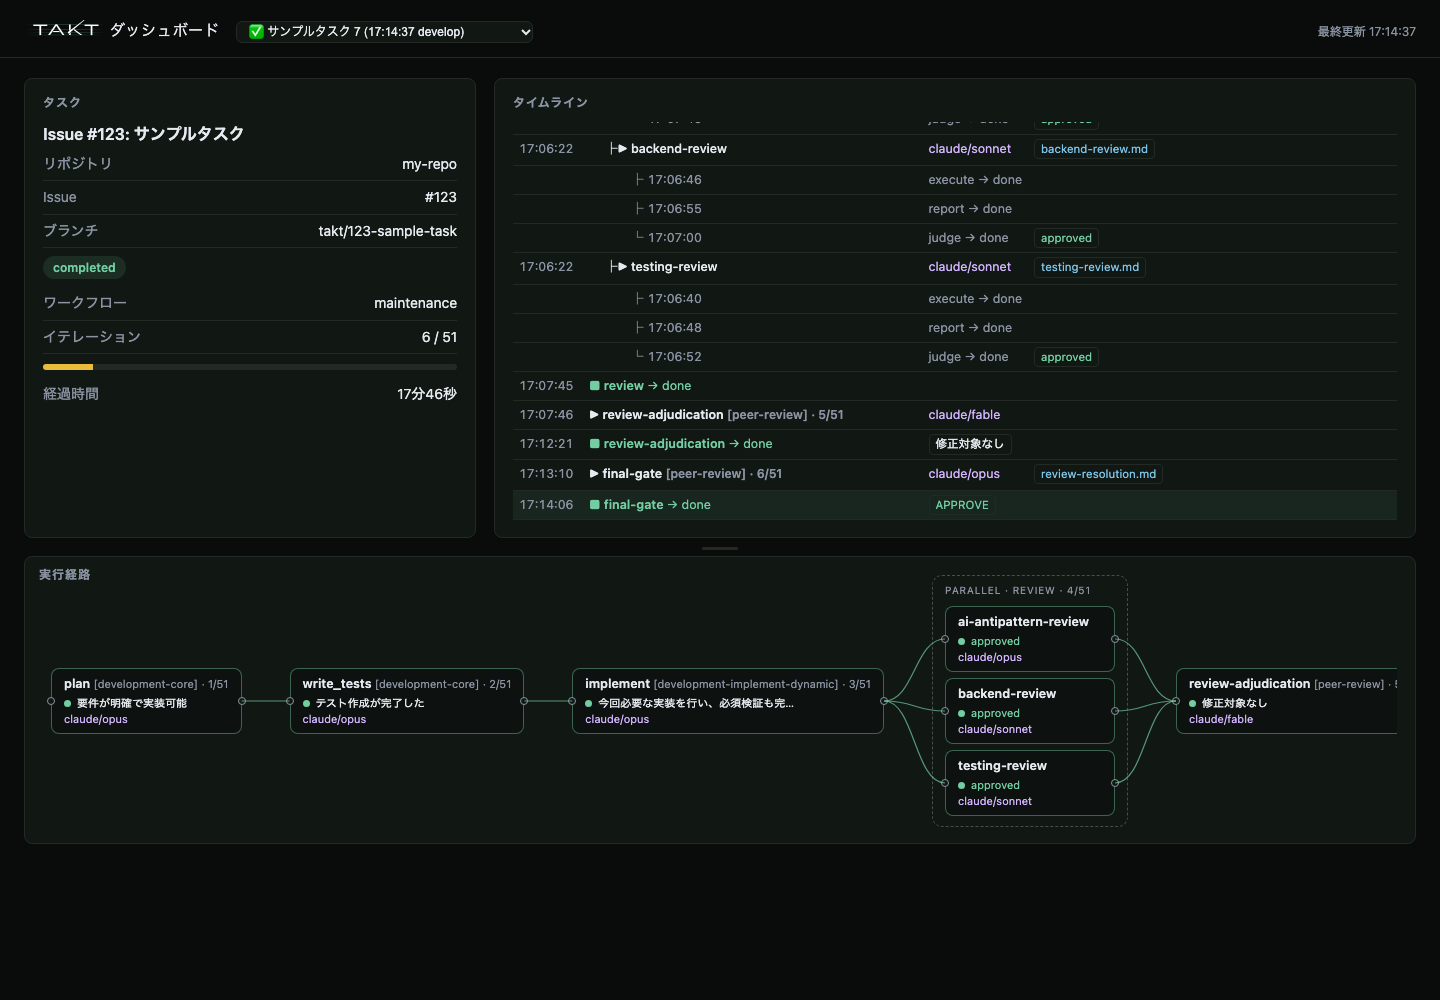
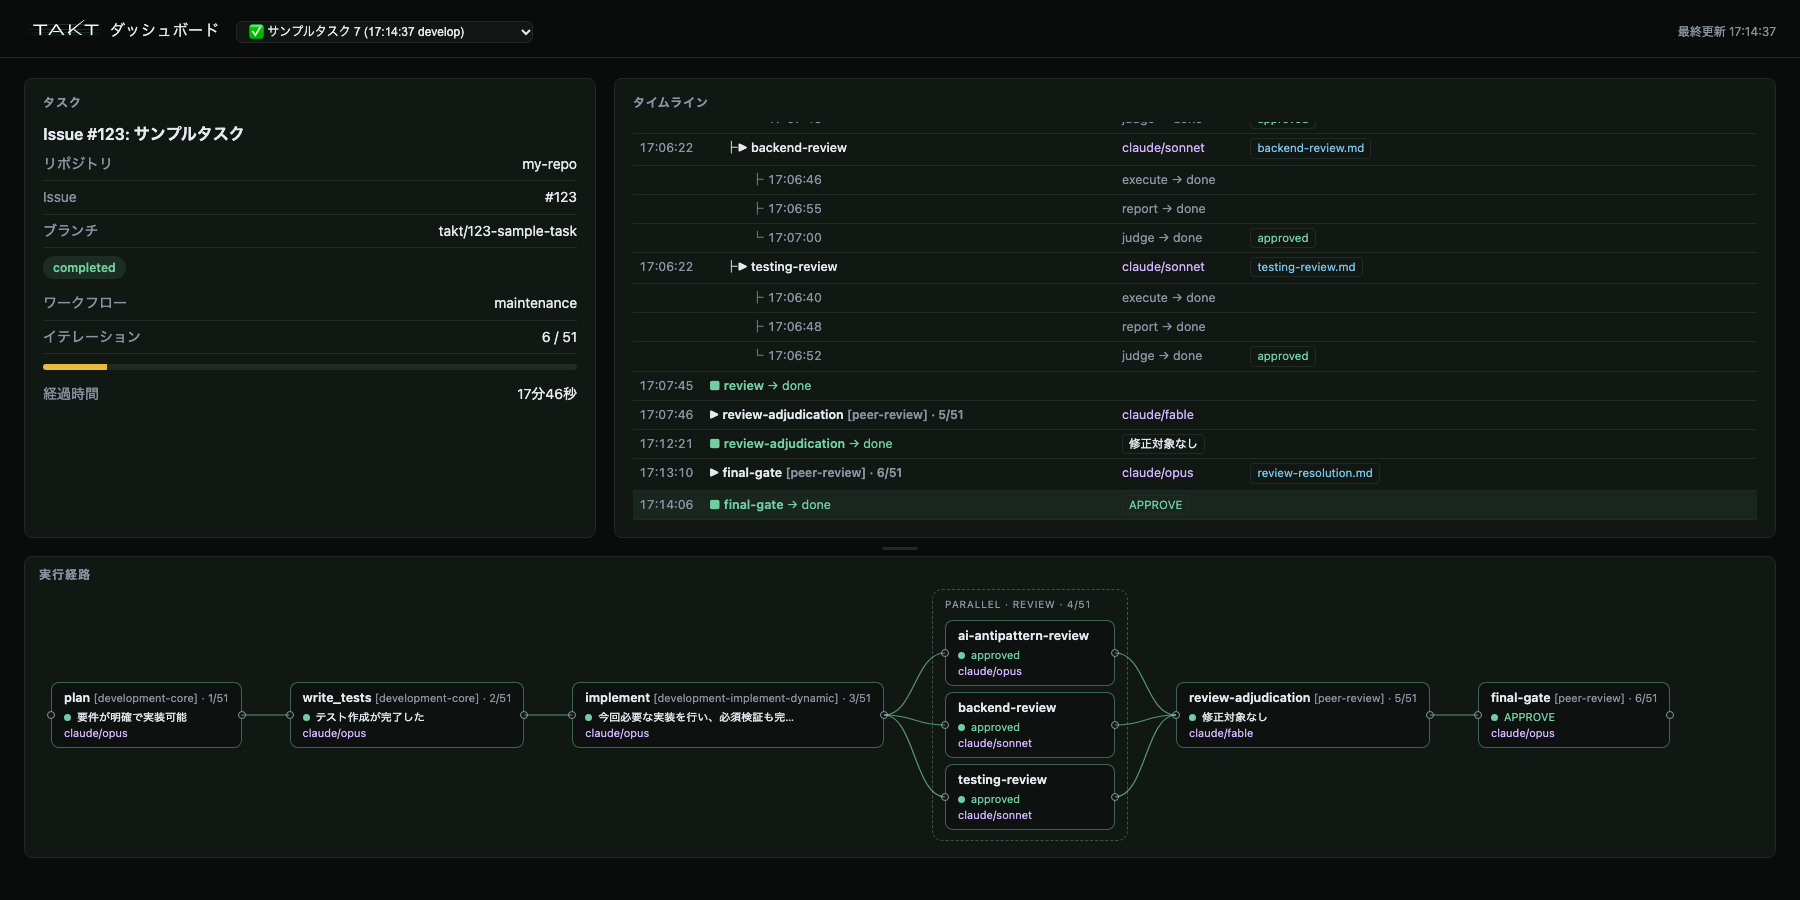
docs: スクリーンショット 2 枚（完了した run・失敗した run）を README の冒頭に追加

diff --git a/README.md b/README.md
@@ -5,6 +5,10 @@
 
 [English](#english) is below.
 
+![完了した run: plan → write_tests → implement → 並列レビュー → 裁定 → final-gate](docs/screenshot-completed.png)
+
+![失敗した run: レビュー → 裁定 → 修正ループを 2 周したあと、裁定ステップで失敗](docs/screenshot-failed.png)
+
 ## できること
 
 - **タイムライン**: ステップの開始・完了を時刻順に。並列ステップは子ごとに木にして、execute / report / judge の終了時刻を並べる
